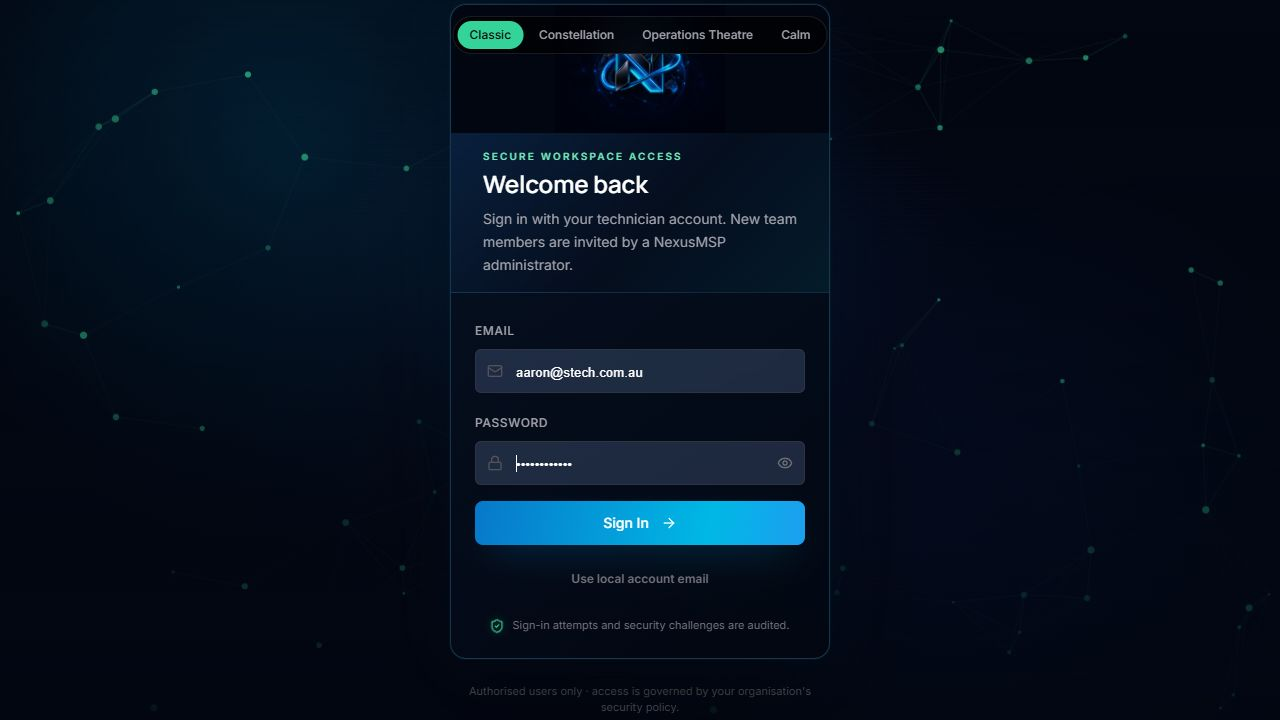
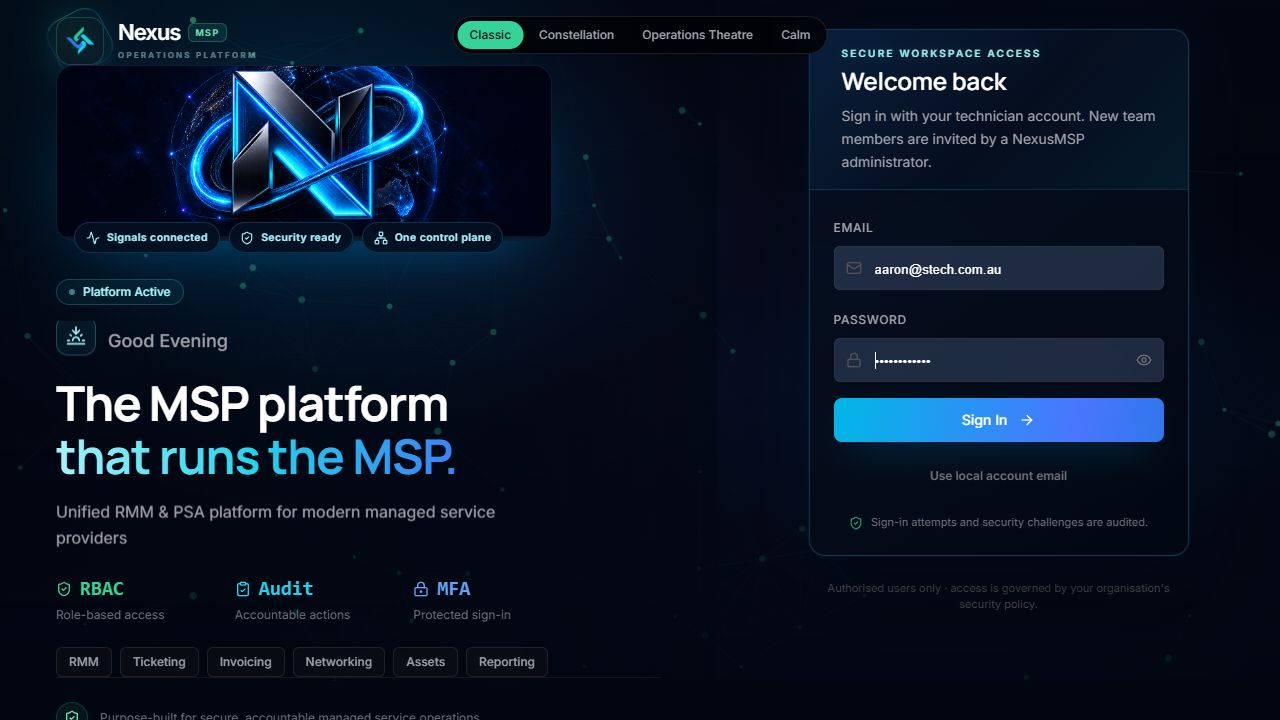
Restore detailed Nexus login showcase

diff --git a/frontend/src/pages/LoginPage.jsx b/frontend/src/pages/LoginPage.jsx
@@ -77,7 +77,7 @@ function NexusBrandBeacon({ visible }) {
   if (!visible) return null;
 
   return (
-    <div className="nexus-brand-beacon">
+    <div className="nexus-brand-beacon" aria-hidden="true">
       <img src={NEXUS_LOGIN_HERO_ART} alt="Nexus MSP" className="nexus-brand-beacon-image" />
     </div>
   );
@@ -388,13 +388,23 @@ export default function LoginPage() {
       )}
 
       {/* Left Panel */}
-      <div className={`login-story-panel ${isNexusBrand ? "hidden" : "hidden lg:flex"} relative z-10 ${experience === "classic" ? "lg:w-[55%]" : experience === "calm" ? "lg:w-[65%]" : "lg:w-[64%]"}`}>
+      <div className={`login-story-panel hidden lg:flex relative z-10 ${experience === "classic" ? "lg:w-[56%]" : experience === "calm" ? "lg:w-[65%]" : "lg:w-[64%]"}`}>
         <div className="flex w-full flex-col justify-between p-10 xl:p-14 2xl:p-16">
           {/* Logo */}
           <BrandMark brand={brand} />
 
           {/* Hero with animated typing */}
           <div className={`space-y-6 2xl:space-y-8 ${experience === "classic" ? "max-w-lg" : "max-w-xl"}`}>
+            {isNexusBrand && (
+              <div className="nexus-operations-showcase">
+                <NexusBrandBeacon visible />
+                <div className="nexus-operations-signals" aria-label="Nexus platform signals">
+                  <span><Activity className="h-3.5 w-3.5" />Signals connected</span>
+                  <span><ShieldCheck className="h-3.5 w-3.5" />Security ready</span>
+                  <span><Network className="h-3.5 w-3.5" />One control plane</span>
+                </div>
+              </div>
+            )}
             <div className="space-y-4">
               <div className="login-eyebrow inline-flex items-center gap-2 px-3 py-1 rounded-full border border-cyan-300/20 bg-cyan-400/[0.06] text-cyan-200 text-xs font-medium backdrop-blur-sm">
                 <span className="w-1.5 h-1.5 rounded-full bg-cyan-300 animate-pulse" />
@@ -484,7 +494,6 @@ export default function LoginPage() {
           <div className="lg:hidden mb-10 flex justify-center"><BrandMark brand={brand} compact /></div>
 
           <div className={`login-auth-panel overflow-hidden rounded-2xl border border-emerald-400/15 bg-zinc-950/70 backdrop-blur-xl shadow-2xl shadow-black/30 ${isLoading ? "is-authenticating" : ""} ${experience === "calm" ? "rounded-l-none border-l-emerald-300/50" : ""}`} style={{ animation: "fadeSlideIn 0.7s ease-out 0.1s both" }}>
-          {isNexusBrand && <NexusBrandBeacon visible />}
           <div className={`login-auth-header border-b border-emerald-400/10 bg-gradient-to-br from-emerald-400/[0.08] via-transparent to-cyan-400/[0.04] px-8 ${isNexusBrand ? "py-4" : "py-6"}`}>
               <p className="login-auth-signal text-[10px] font-semibold uppercase tracking-[0.22em] text-emerald-300">Secure workspace access</p>
               <h2 className="login-auth-title mt-1 text-2xl font-semibold text-white">Welcome back</h2>
@@ -643,9 +652,13 @@ export default function LoginPage() {
         @keyframes edgeBreathe { 0%,100% { box-shadow:0 26px 90px rgba(0,0,0,.42), 0 0 0 1px rgba(52,211,153,.04); } 50% { box-shadow:0 28px 100px rgba(0,0,0,.5), 0 0 36px rgba(34,211,238,.08); } }
         @keyframes nexusBeaconEnter { from { opacity:0; transform:translateY(12px) scale(.96); } to { opacity:1; transform:translateY(0) scale(1); } }
         @keyframes nexusBeaconFloat { 0%,100% { transform:translateY(0) scale(1); filter:brightness(.92) saturate(1.08); } 50% { transform:translateY(-5px) scale(1.012); filter:brightness(1.04) saturate(1.22) drop-shadow(0 0 20px rgba(29,207,255,.25)); } }
-        .nexus-signin::before { content:""; position:absolute; inset:0; pointer-events:none; background:radial-gradient(ellipse at 50% 32%,rgba(6,94,168,.16),transparent 33%),linear-gradient(180deg,rgba(2,7,18,.05),rgba(2,6,17,.84)); z-index:1; }
-        .nexus-brand-beacon { display:flex; height:8rem; align-items:center; justify-content:center; overflow:hidden; background:#020611; opacity:0; animation:nexusBeaconEnter .7s cubic-bezier(.2,.78,.2,1) .08s forwards; }
-        .nexus-brand-beacon-image { height:100%; width:100%; object-fit:contain; object-position:center; animation:nexusBeaconFloat 7s ease-in-out 1s infinite; }
+        .nexus-signin::before { content:""; position:absolute; inset:0; pointer-events:none; background:radial-gradient(ellipse at 30% 34%,rgba(6,94,168,.2),transparent 31%),radial-gradient(ellipse at 78% 60%,rgba(8,98,193,.09),transparent 28%),linear-gradient(180deg,rgba(2,7,18,.03),rgba(2,6,17,.84)); z-index:1; }
+        .nexus-signin .login-story-panel { background:linear-gradient(90deg,rgba(2,6,17,.12),rgba(2,9,22,.24) 72%,rgba(2,6,17,.52)); }
+        .nexus-operations-showcase { position:relative; max-width:31rem; }
+        .nexus-brand-beacon { display:flex; height:clamp(11rem,23vh,15rem); align-items:center; justify-content:center; overflow:hidden; border-radius:1.15rem; background:#020611; border:1px solid rgba(75,198,255,.12); box-shadow:inset 0 0 0 1px rgba(83,199,255,.03),0 28px 65px -36px rgba(0,163,255,.56); opacity:0; animation:nexusBeaconEnter .7s cubic-bezier(.2,.78,.2,1) .08s forwards; }
+        .nexus-brand-beacon-image { height:100%; width:100%; object-fit:cover; object-position:center; animation:nexusBeaconFloat 7s ease-in-out 1s infinite; }
+        .nexus-operations-signals { position:relative; z-index:2; display:flex; flex-wrap:wrap; gap:.55rem; margin-top:-1.2rem; padding-left:1.15rem; }
+        .nexus-operations-signals span { display:inline-flex; align-items:center; gap:.42rem; border:1px solid rgba(99,220,255,.16); border-radius:999px; background:rgba(3,14,31,.86); padding:.44rem .68rem; color:rgb(165,243,252); font-size:.65rem; font-weight:600; letter-spacing:.045em; box-shadow:0 9px 26px -16px rgba(0,174,255,.54); backdrop-filter:blur(12px); }
         .experience-background { animation:atmosphereDrift 24s ease-in-out infinite; will-change:transform; }
         .login-experience-theatre .theatre-world-motion {
           animation:worldOrbit 30s cubic-bezier(.45,.05,.55,.95) infinite alternate;

diff --git a/design-qa.md b/design-qa.md
@@ -9,19 +9,19 @@
 
 ## Full-view comparison
 
-The first implementation treated the original square artwork as a left-side hero. That made the logo compete with the authentication task and exposed the original white canvas. The refined implementation uses a clean dark asset and one centred sign-in composition: the Nexus beacon leads the card, the dark network field supplies depth, and the form stays visually dominant.
+The first implementation treated the original square artwork as a left-side hero, but exposed the source image's white canvas. A later single-card version was calm but did not adequately represent the breadth of the Nexus platform. The final implementation uses the clean dark beacon in a dedicated left operational showcase, with live signal indicators and a clear platform message. The right side remains a deliberately quiet sign-in surface.
 
 ## Focused-region comparison
 
-The top brand region was compared with the supplied artwork's core traits: angular silver/black N, cyan energy trail and globe/network context. The refined asset retains those visual traits with a seamless deep-space background. The sign-in region was checked separately for legible labels, visible input boundaries, primary-action contrast and above-the-fold completion.
+The left showcase was compared with the supplied artwork's core traits: angular silver/black N, cyan energy trail and globe/network context. The refined asset retains those visual traits with a seamless deep-space background. The sign-in region was checked separately for legible labels, visible input boundaries, primary-action contrast and above-the-fold completion.
 
 ## Required fidelity surfaces
 
 - **Fonts and typography:** Product typography remains restrained and readable. The brand image carries the expressive identity; operational copy remains calm and easy to scan.
-- **Spacing and layout rhythm:** The entire authentication card fits at the tested 720 px viewport. The logo, security statement, form controls and assurance line have one clear vertical path.
+- **Spacing and layout rhythm:** The left showcase has a dedicated visual band, clear signal chips and a stable message hierarchy. The right card fits fully at the tested 720 px viewport and has one clear sign-in path.
 - **Colours and visual tokens:** Deep navy/near-black, cyan and cobalt are taken directly from the supplied visual. Green remains reserved for positive security status instead of competing with the brand palette.
 - **Image quality and asset fidelity:** The supplied artwork informed the generated dark beacon asset; no white canvas, poster border or improvised logo drawing remains. The visual is a real raster asset rather than CSS-drawn branding.
-- **Copy and content:** The familiar sign-in wording is retained, with no marketing blocks competing with the task.
+- **Copy and content:** The familiar sign-in wording is retained. The left copy makes the platform promise explicit without putting marketing content inside the authentication workflow.
 
 ## Findings
 
@@ -42,14 +42,15 @@ No actionable P0, P1 or P2 findings remain in the tested desktop state.
 
 1. Initial left-column crop was visually busy and retained the source image's white outer canvas.
 2. A clean dark brand asset was created from the supplied visual direction.
-3. The login was simplified to one centred sign-in card with a single animated brand beacon.
-4. The form padding and header spacing were tightened so the full sign-in flow fits at 1280 × 720.
+3. The logo was returned to a detailed left-side operational showcase, with a subtle float animation and live platform signal chips.
+4. The authentication workflow was moved back to a dedicated right-side card.
+5. The final browser render confirmed the full screen is balanced and free of console errors.
 
 ## Implementation checklist
 
 - [x] Preserve the supplied Nexus logo's central visual language.
-- [x] Remove the busy split-screen hero layout for the default Nexus brand.
-- [x] Centre the brand and sign-in experience.
+- [x] Create a detailed animated left-side platform showcase.
+- [x] Keep authentication isolated in a clear right-side card.
 - [x] Keep motion subtle and reduced-motion safe.
 - [x] Verify the rendered login and browser console.
 
